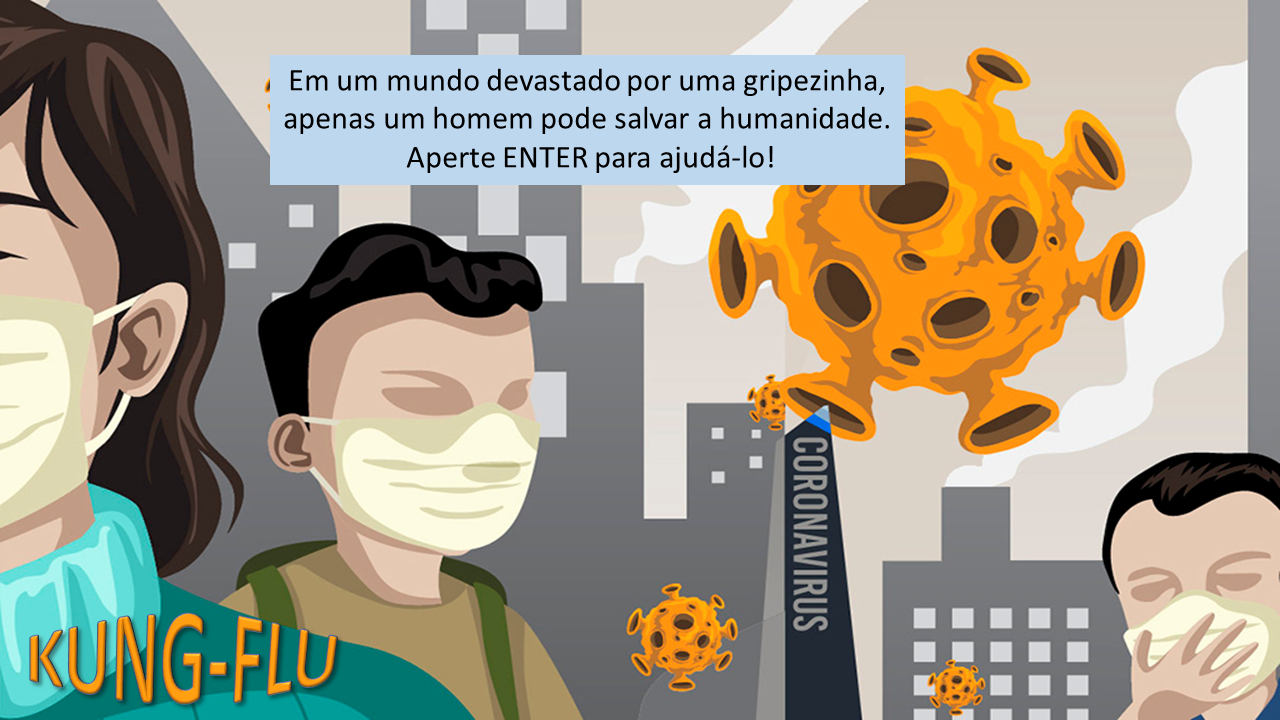
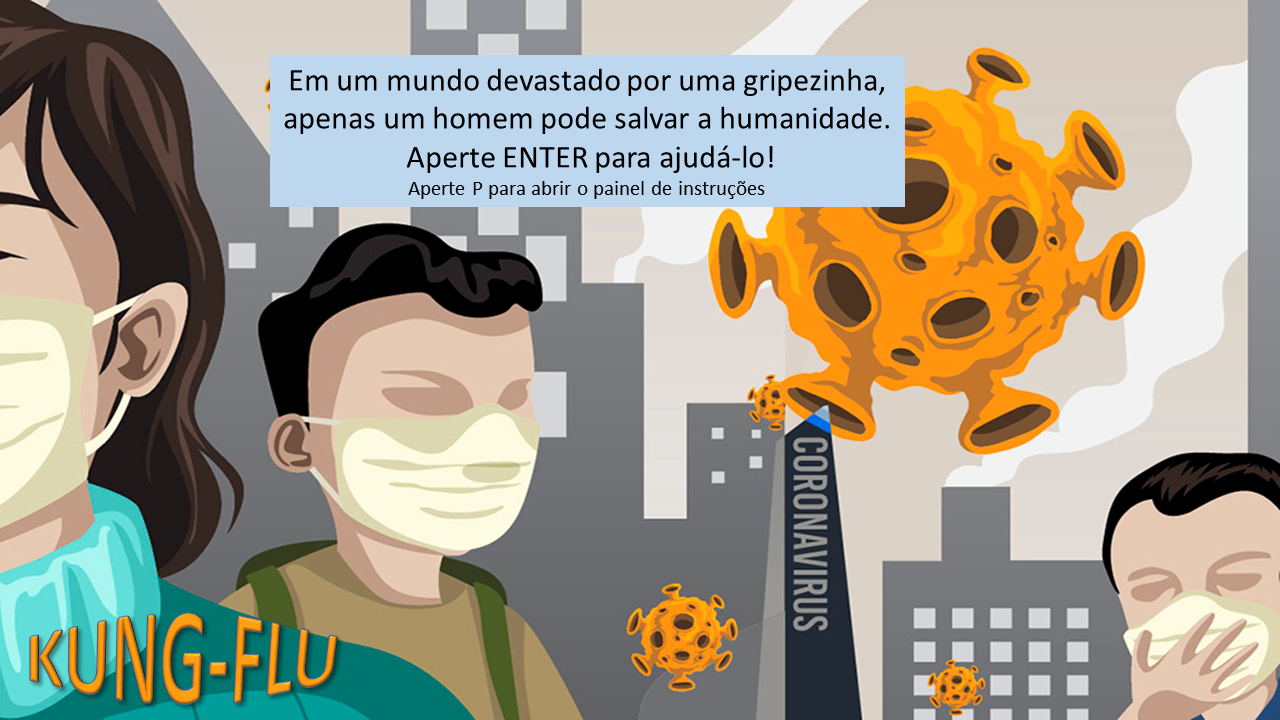
intrucoes corrigidas

Changed region(s): [[0.1875, 0.2444, 0.7188, 0.3056]]

diff --git a/meu_jogo/programa.py b/meu_jogo/programa.py
@@ -30,6 +30,7 @@ QUIT = 0
 GAME = 1
 INTRO = 2
 SCOREBOARD = 3
+INSTRUCTIONS = 4
 
 # Carrega as imagens (fundo, obstáculos e personagem):
 menu = pg.image.load('imagens/menu.png').convert()
@@ -55,6 +56,8 @@ assets['obstaculos'] = pg.image.load('imagens/obstaculos/ob02.png').convert_alph
 assets['obstaculos'] = pg.transform.scale(assets['obstaculos'], (150, 100))
 assets['emoji'] = pg.image.load('imagens/emoji.png').convert_alpha()
 assets['emoji'] = pg.transform.rotozoom(assets['emoji'], 0, 0.3)
+assets['instrucoes'] = pg.image.load('imagens/instrucoes.png').convert()
+assets['instrucoes'] = pg.transform.scale(assets['instrucoes'], (largura,altura))
 
 # Declara classes:
 # Classe de obstáculos
@@ -323,7 +326,32 @@ def intro_game():
             if event.type == pg.KEYDOWN:
                 if event.key == pg.K_RETURN:
                     return GAME
+            if event.type == pg.KEYDOWN:
+                if event.key == pg.K_p:
+                    return INSTRUCTIONS
         janela.blit(assets['menu'], (0, 0))
+        pg.display.update()
+        clock.tick(FPS)
+
+#Loop instrucoes
+def instrucoes():
+    """Explica os possíveis movimentos e diferentes power-ups que podem ser utlizados pelo jogador.
+
+    Inputs do jogador:
+    pressionar ESCAPE: leva o jogador de volta ao menu principal.
+    pressionar ENTER: leva o jogador direto ao jogo.
+    """
+    while True:
+        for event in pg.event.get():
+            if event.type == pg.QUIT:
+                return QUIT
+            if event.type == pg.KEYDOWN:
+                    if event.key == pg.K_RETURN:
+                        return GAME
+            if event.type == pg.KEYDOWN:
+                    if event.key == pg.K_ESCAPE:
+                        return INTRO
+        janela.blit(assets['instrucoes'], (0, 0))
         pg.display.update()
         clock.tick(FPS)
 
@@ -471,6 +499,8 @@ state = INTRO
 while state != QUIT:
     if state == INTRO:
         state = intro_game()
+    elif state == INSTRUCTIONS:
+        state = instrucoes()
     elif state == GAME:
         state = game_run()
     elif state == SCOREBOARD:
